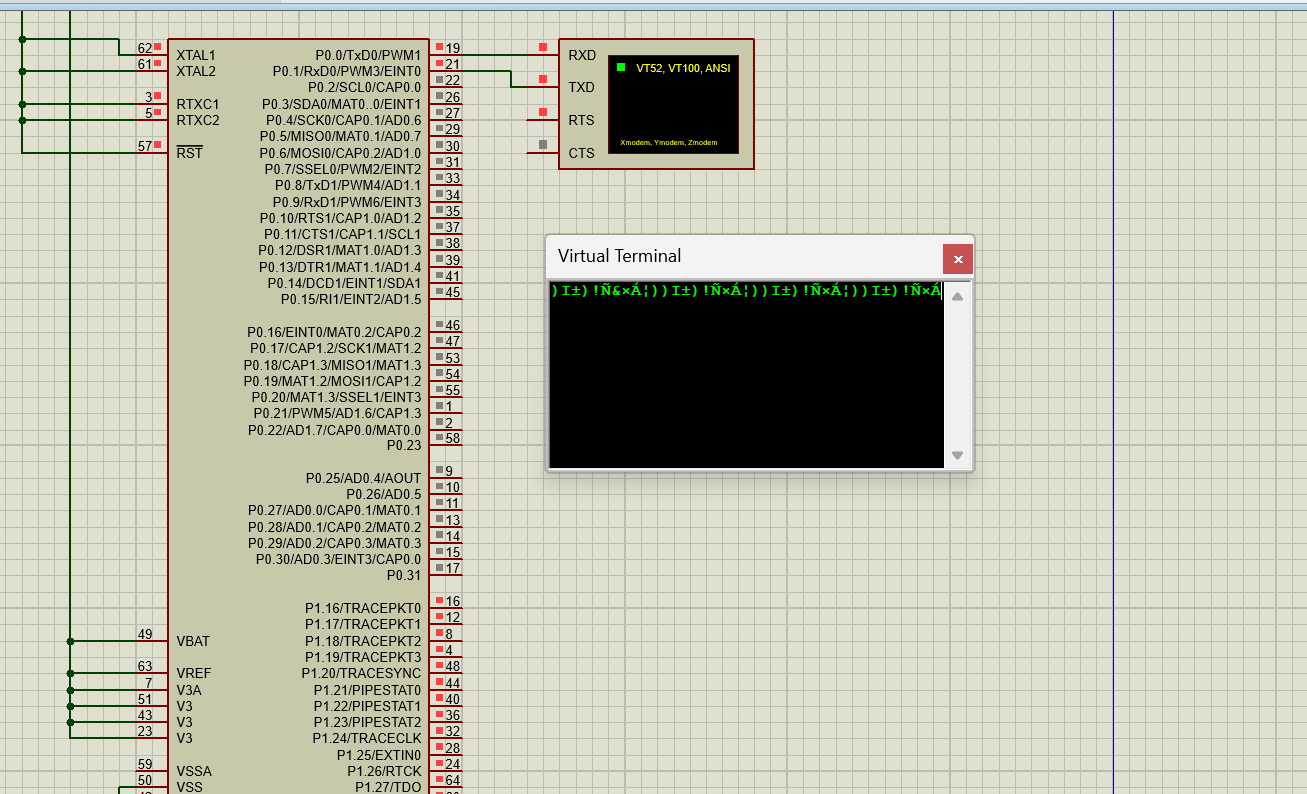
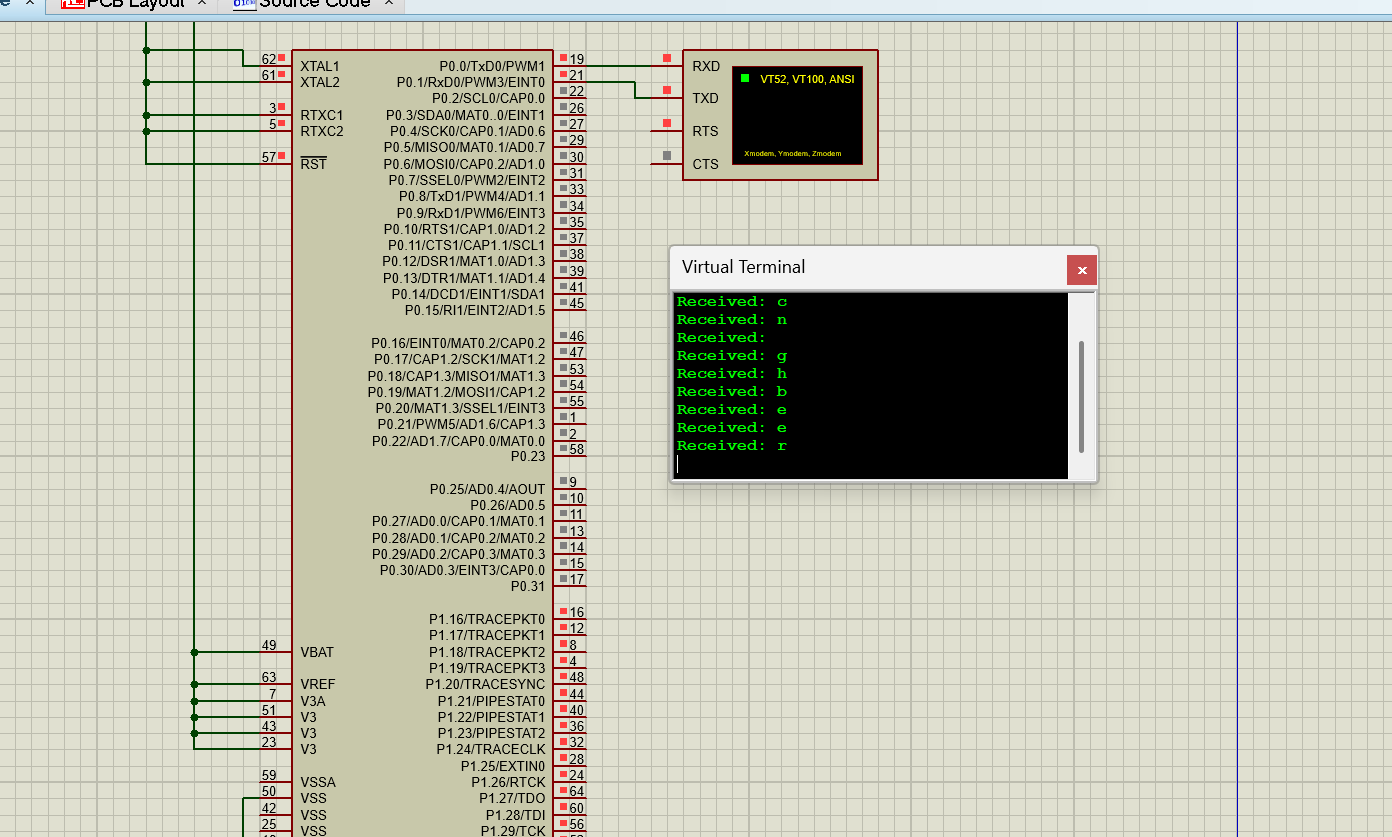
Made some configuration changes in uart

diff --git a/005_LPC2148_UART_Rx/main.c b/005_LPC2148_UART_Rx/main.c
@@ -6,15 +6,23 @@
 
 void Uart0Init(void)
 {
+	PINSEL0 &= ~0x0000000F;
 	PINSEL0 |= 0x00000005;
+	VPBDIV = 0x04; 
+	
 	U0LCR = 0x83;
 	U0DLL = 97;
-	U0LCR = 0x03;
+	U0DLM = 0;
+  U0FDR = 0x10;              
+  U0LCR = 0x03;
+	
+	U0FCR = 0x07;
 }
 
 uint32_t Uart0Rxdata(uint8_t* ucRxBuff, uint32_t uiSize)
 {
 	uint32_t uiRxIdx = 0;
+	VPBDIV = 0x04; 
 	
 	while(uiSize > 0)
 	{
